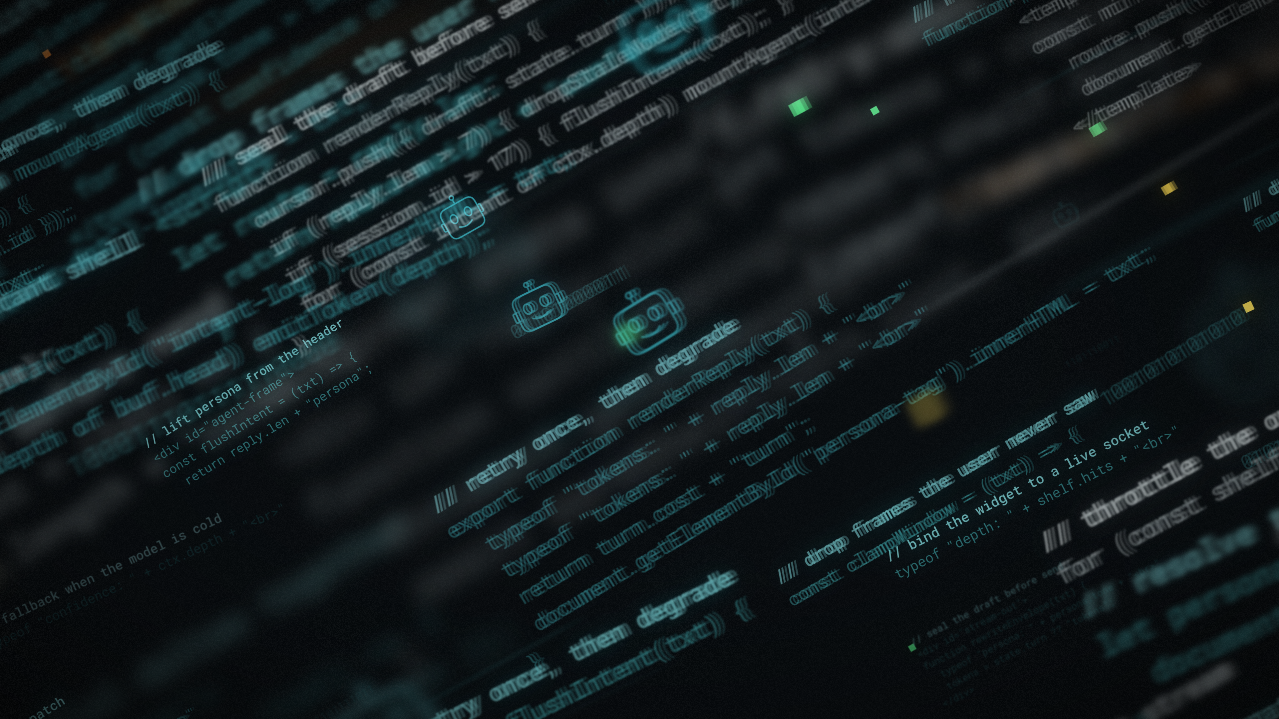
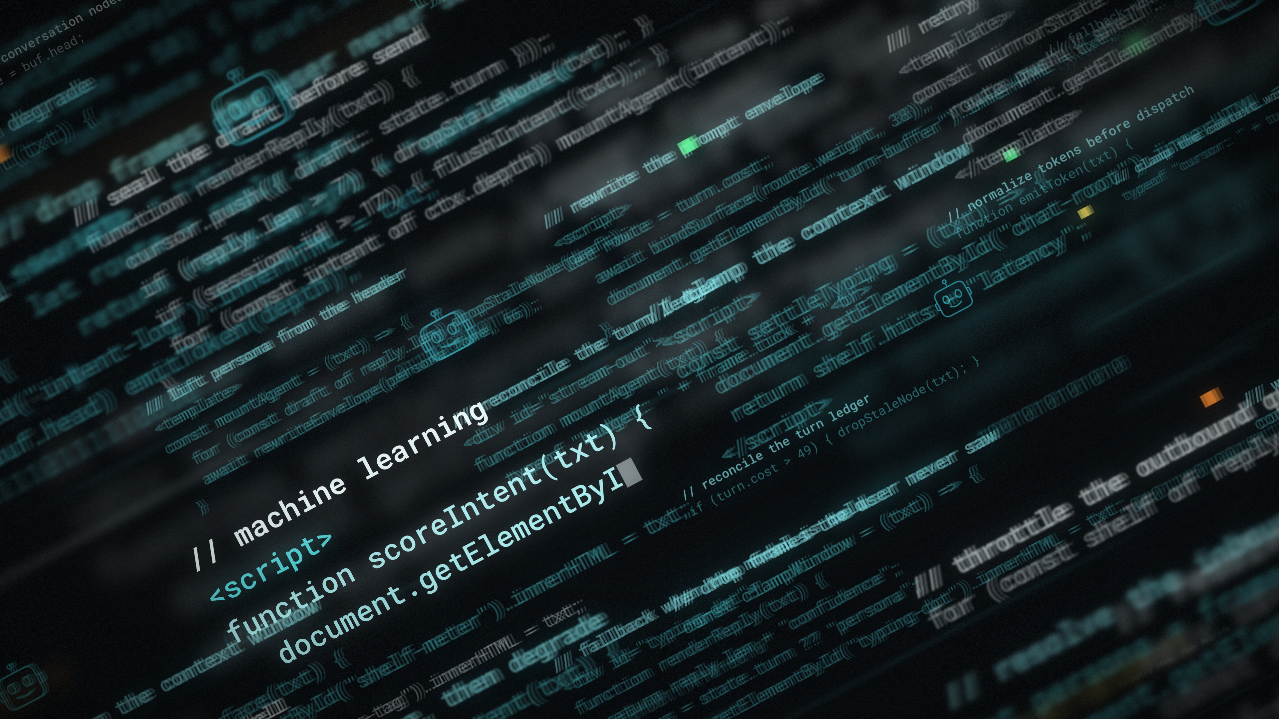
Lock every element to one tilt, add two typing hero fragments
Two changes against the reference look.

First, the tilt is now uniform. ROT_JITTER_DEG drops from 4 to 0, so every
element sits on exactly the same -28 degree axis. At this density the spread
stopped reading as life and started reading as inconsistency.

Second, two hero fragments. Large, sharp, on the shared tilt, with a comment
and a <script> tag already written and the function line and DOM call typing
themselves out character by character behind a blinking caret. They are the one
population drawn live rather than from a cached sprite, since their content
changes every frame - two elements, four short lines, no blur, no filter, so
the cost is negligible.

Typing progress comes from how far the fragment is through its crossing rather
than from the frame number, so it stays inside the loop: at frame 540 the
fragment is back at its frame-0 position and shows its frame-0 characters. The
caret blinks on a 36-frame period and 540 / 36 = 15. The two heroes are
phase-offset by half the loop so they take turns crossing.

verify-loop still passes: frame 0 and frame 540 are pixel-identical.

Claude-Session: https://claude.ai/code/session_01QD9ELq3c9MFeQ39FdHcLBf

diff --git a/src/CodeFlythrough/draw.ts b/src/CodeFlythrough/draw.ts
@@ -1,6 +1,6 @@
 import * as C from './constants';
 import type {FieldElement} from './field';
-import type {Sprite} from './sprites';
+import {fontString, type Sprite} from './sprites';
 
 export interface Scratch {
   small: HTMLCanvasElement;
@@ -10,6 +10,86 @@ export interface Scratch {
 }
 
 const mod1 = (n: number) => ((n % 1) + 1) % 1;
+
+const clamp01 = (n: number) => (n < 0 ? 0 : n > 1 ? 1 : n);
+
+/**
+ * Draws a hero fragment: the same tilt as everything else, its leading lines
+ * already written, the rest typing itself out as the fragment crosses frame.
+ *
+ * `prog` runs 1 -> 0 over one crossing, so `1 - prog` is how far along the
+ * crossing the fragment is. Deriving the typing from that instead of from the
+ * frame number is what keeps it inside the loop: at frame 540 the fragment is
+ * back at its frame-0 position and so shows its frame-0 characters.
+ */
+const drawHero = (
+  g: CanvasRenderingContext2D,
+  el: FieldElement,
+  x: number,
+  y: number,
+  scale: number,
+  f: number,
+  prog: number,
+  fontFamily: string,
+) => {
+  const typed = clamp01((1 - prog - C.HERO_TYPE_START) / C.HERO_TYPE_SPAN);
+
+  const animated = el.lines.slice(el.staticLines);
+  const total = animated.reduce((n, line) => n + line.length, 0);
+  let left = Math.floor(typed * total);
+
+  const lh = el.fontPx * C.LINE_HEIGHT;
+  const top = -(el.lines.length * lh) / 2;
+
+  g.save();
+  g.translate(x, y);
+  g.rotate(el.rot);
+  g.scale(scale, scale);
+  g.textAlign = 'left';
+  g.textBaseline = 'middle';
+  g.globalAlpha = el.alpha;
+
+  let caretX: number | null = null;
+  let caretY = 0;
+
+  for (let i = 0; i < el.lines.length; i++) {
+    const full = el.lines[i] as string;
+    const isStatic = i < el.staticLines;
+    const lineY = top + (i + 0.5) * lh;
+
+    g.font = fontString(fontFamily, el.fontPx, i === 0 ? el.weight + 100 : el.weight);
+    g.fillStyle = (el.lineColors[i] as string) ?? el.color;
+
+    if (!isStatic && left <= 0) {
+      // Nothing of this line is written yet. The caret waits at its indent.
+      const indent = full.slice(0, full.length - full.trimStart().length);
+      caretX = -el.w0 / 2 + g.measureText(indent).width;
+      caretY = lineY;
+      break;
+    }
+
+    const shown = isStatic ? full : full.slice(0, Math.min(left, full.length));
+    if (!isStatic) left -= shown.length;
+
+    g.fillText(shown, -el.w0 / 2, lineY);
+
+    if (!isStatic && shown.length < full.length) {
+      caretX = -el.w0 / 2 + g.measureText(shown).width;
+      caretY = lineY;
+      break;
+    }
+  }
+
+  // A blinking block caret while there is still text to write.
+  if (typed < 1 && caretX !== null && f % C.HERO_CARET_PERIOD < 22) {
+    g.globalAlpha = el.alpha * 0.5;
+    g.fillStyle = C.COLORS.codeWhite;
+    g.fillRect(caretX, caretY - el.fontPx * 0.42, el.fontPx * 0.58, el.fontPx * 0.86);
+  }
+
+  g.restore();
+  g.globalAlpha = 1;
+};
 
 /**
  * Handheld camera: a small drift perpendicular to the diagonal. Both sine
@@ -99,6 +179,7 @@ export interface DrawArgs {
   width: number;
   height: number;
   rand: (seed: string) => number;
+  fontFamily: string;
 }
 
 /**
@@ -121,6 +202,7 @@ export const drawFrame = ({
   width,
   height,
   rand,
+  fontFamily,
 }: DrawArgs) => {
   const f = ((frame % C.DURATION) + C.DURATION) % C.DURATION;
 
@@ -148,6 +230,11 @@ export const drawFrame = ({
 
     const x = (C.CX + C.AX * u + C.PX * perp) * sx;
     const y = (C.CY + C.AY * u + C.PY * perp) * sy;
+
+    if (el.kind === 'hero') {
+      drawHero(ctx, el, x, y, el.scale * sx, f, prog, fontFamily);
+      continue;
+    }
 
     const dw = sp.w * sp.m * sx;
     const dh = sp.h * sp.m * sy;

diff --git a/src/CodeFlythrough/field.ts b/src/CodeFlythrough/field.ts
@@ -1,9 +1,9 @@
 import {random} from 'remotion';
 import * as C from './constants';
 import {lift, mix} from './color';
-import {makeBinary, makeSnippet} from './snippets';
+import {HERO_SNIPPETS, makeBinary, makeSnippet} from './snippets';
 
-export type Kind = 'code' | 'icon' | 'binary' | 'streak' | 'accent';
+export type Kind = 'code' | 'icon' | 'binary' | 'streak' | 'accent' | 'hero';
 
 export interface FieldElement {
   id: string;
@@ -43,6 +43,10 @@ export interface FieldElement {
   streakThickness: number;
   /** accent only */
   squareSize: number;
+  /** hero only: how many leading lines are already written on entry. */
+  staticLines: number;
+  /** hero only: one colour per line. */
+  lineColors: string[];
 }
 
 export type Measure = (
@@ -207,6 +211,8 @@ const base = (
     glow: 0,
     streakThickness: 0,
     squareSize: 0,
+    staticLines: 0,
+    lineColors: [],
   };
 };
 
@@ -307,6 +313,43 @@ export const buildField = (measure: Measure): FieldElement[] => {
     el.color = pick(id + ':col', C.ACCENTS);
     el.alpha = Math.min(1, el.alpha * 1.35);
     el.glow = 1.2;
+    out.push(el);
+  }
+
+  // 6. HERO FRAGMENTS ------------------------------------------------------
+  // Large, sharp, on the shared tilt, with their second half typing out as
+  // they cross. Phase-offset by half a loop so they take turns crossing.
+  for (let i = 0; i < C.COUNT_HERO; i++) {
+    const id = `hero-${i}`;
+    const hero = HERO_SNIPPETS[i % HERO_SNIPPETS.length] as (typeof HERO_SNIPPETS)[number];
+    const w0 = measure(hero.lines, C.FONT_PX, 500);
+    const h0 = hero.lines.length * C.FONT_PX * C.LINE_HEIGHT;
+    const el = base(id, 'hero', C.HERO_Z, 0, w0, h0, i, C.COUNT_HERO, 0);
+    el.scale = C.HERO_SCALE;
+    el.lines = [...hero.lines];
+    el.staticLines = hero.staticLines;
+    el.weight = 500;
+    el.blur = 0;
+    // The hero is what the eye reads. It does not get smeared.
+    el.steps = 1;
+    el.perp = i === 0 ? -C.PERP_SPREAD * 0.11 : C.PERP_SPREAD * 0.03;
+    el.phase = i === 0 ? 0.75 : 0.25;
+    el.color = C.COLORS.codeCyan;
+    el.commentColor = C.COLORS.codeWhite;
+    el.lineColors = hero.lines.map((line, li) => {
+      if (li === 0) return C.COLORS.codeWhite;
+      if (line.startsWith('<')) return C.COLORS.codeCyan;
+      return lift(C.COLORS.codeCyan, 0.5);
+    });
+    el.glow = 1.3;
+
+    // Re-resolve the wrap now that scale is the hero's own, not z * MAX_SCALE.
+    const axisExtent = w0 * el.scale + h0 * el.scale * 0.12;
+    const wrap = wrapFor(C.HERO_Z, axisExtent);
+    el.speed = wrap.speed;
+    el.travel = wrap.travel;
+    el.cycles = wrap.cycles;
+
     out.push(el);
   }
 

diff --git a/src/CodeFlythrough/constants.ts b/src/CodeFlythrough/constants.ts
@@ -43,8 +43,13 @@ export const PERP_VIEW = WIDTH * Math.abs(PX) + HEIGHT * Math.abs(PY); // ~3708
 /** Perpendicular spread the field is scattered across. */
 export const PERP_SPREAD = PERP_VIEW + 780;
 
-/** Per-element rotation jitter, in degrees. More than this breaks the stream. */
-export const ROT_JITTER_DEG = 4;
+/**
+ * Per-element rotation jitter, in degrees.
+ *
+ * Zero: every element sits on exactly the same tilt. Any spread at all reads
+ * as inconsistency once the field is this dense, so the stream is kept rigid.
+ */
+export const ROT_JITTER_DEG = 0;
 
 /** Depth range. */
 export const Z_MIN = 0.15;
@@ -112,3 +117,27 @@ export const VIGNETTE = 0.22;
 export const GRAIN_ALPHA = 0.045;
 export const GRAIN_TILES = 12;
 export const GRAIN_TILE_PX = 320;
+
+/**
+ * HERO FRAGMENTS
+ *
+ * Two large, sharp code blocks on the shared tilt whose second half types
+ * itself out as they cross, so the field reads as code being written rather
+ * than only code drifting past. They are drawn live rather than from a cached
+ * sprite, since their content changes frame to frame.
+ */
+export const COUNT_HERO = 2;
+/** Sits at the far edge of the sharp band, so its blur is zero. */
+export const HERO_Z = 0.49;
+/** Fixed rather than derived from z: the hero is deliberately oversized. */
+export const HERO_SCALE = 2.45;
+/**
+ * Typing runs over this window of the element's crossing and then holds
+ * complete. Tied to the crossing rather than to a wall clock, so it loops for
+ * free: at frame 540 every element is back at its frame-0 crossing position,
+ * and therefore at its frame-0 typing state.
+ */
+export const HERO_TYPE_START = 0.24;
+export const HERO_TYPE_SPAN = 0.42;
+/** Caret blink period in frames. Must divide DURATION: 540 / 36 = 15. */
+export const HERO_CARET_PERIOD = 36;

diff --git a/src/CodeFlythrough/snippets.ts b/src/CodeFlythrough/snippets.ts
@@ -180,3 +180,39 @@ export const makeBinary = (seed: string): string => {
 
 /** True for comment lines, which get the brightest treatment. */
 export const isComment = (line: string) => line.trimStart().startsWith('//');
+
+/**
+ * The two hero fragments.
+ *
+ * Same invented-content rule as the rest of the field: the topics are generic
+ * subject phrases and the surrounding structure is ordinary DOM boilerplate,
+ * but the function names and element ids are made up for this animation.
+ *
+ * `staticLines` is how many lines are already written when the fragment enters
+ * frame. Everything after that types itself out as the fragment crosses.
+ */
+export interface HeroSnippet {
+  lines: string[];
+  staticLines: number;
+}
+
+export const HERO_SNIPPETS: readonly HeroSnippet[] = [
+  {
+    lines: [
+      '// ai chatbot',
+      '<script>',
+      'function replyStream(txt) {',
+      '  document.getElementById("chat-root").innerHTML = txt;',
+    ],
+    staticLines: 2,
+  },
+  {
+    lines: [
+      '// machine learning',
+      '<script>',
+      'function scoreIntent(txt) {',
+      '  document.getElementById("intent-log").innerHTML = txt;',
+    ],
+    staticLines: 2,
+  },
+];

diff --git a/src/CodeFlythrough/sprites.ts b/src/CodeFlythrough/sprites.ts
@@ -24,7 +24,7 @@ const ctx2d = (c: HTMLCanvasElement) => {
   return g;
 };
 
-const fontString = (fontFamily: string, px: number, weight: number) =>
+export const fontString = (fontFamily: string, px: number, weight: number) =>
   `${weight} ${px}px "${fontFamily}", "Roboto Mono", ui-monospace, monospace`;
 
 /** Text measurement, used while generating the field. */
@@ -225,6 +225,11 @@ const smear = (core: HTMLCanvasElement, el: FieldElement, m: number): Sprite => 
  * redone; per frame the element costs a handful of drawImage calls.
  */
 const buildSprite = (el: FieldElement, fontFamily: string): Sprite => {
+  // Heroes retype themselves every frame, so there is nothing to cache.
+  if (el.kind === 'hero') {
+    return {canvas: makeCanvas(1, 1), m: 1, w: 1, h: 1};
+  }
+
   const sharpness = 1 / (1 + el.blur / 10);
   let rs = Math.min(
     el.scale,

diff --git a/src/CodeFlythrough/index.tsx b/src/CodeFlythrough/index.tsx
@@ -109,6 +109,7 @@ export const CodeFlythrough: React.FC = () => {
       width,
       height,
       rand: random,
+      fontFamily: FONT_FAMILY,
     });
 
     if (handleRef.current !== null) {

diff --git a/README.md b/README.md
@@ -60,9 +60,34 @@ shape sweeping past the lens or dim distant texture.
 
 ### The diagonal
 
-Every element is rotated to the same -28° axis and drifts along that same axis
-toward the lower left, with ±4° of per-element jitter. The shared angle is what
+Every element is rotated to exactly the same -28° axis and drifts along that
+same axis toward the lower left. There is no per-element rotation jitter:
+`ROT_JITTER_DEG` is 0, because at this density any spread at all stops reading
+as life and starts reading as inconsistency. The single shared angle is what
 makes the field cohere into a stream instead of scattered debris.
+
+### The hero fragments
+
+Two of the fragments are heroes: large, sharp, on the shared tilt, and their
+second half types itself out as they cross frame — a comment and a `<script>`
+tag already written, then the function line and the DOM call appearing
+character by character behind a blinking caret.
+
+They are the one population drawn live instead of from a cached sprite, since
+their content changes every frame. That costs nothing: two elements, four short
+lines, no blur, no filter.
+
+Typing progress is derived from how far the fragment is through its crossing,
+not from the frame number:
+
+```
+typed = clamp01((1 - prog - HERO_TYPE_START) / HERO_TYPE_SPAN)
+```
+
+so it loops for free. At frame 540 the fragment is back at its frame-0 crossing
+position and therefore shows its frame-0 characters. The caret blink is on a
+36-frame period, and 540 / 36 = 15. The two heroes are phase-offset by half the
+loop, so they take turns crossing.
 
 ### The seamless loop
 
@@ -95,7 +120,8 @@ they took it from ~13s to ~2.3s per frame:
 
 - **Sprites are built once.** An element's rotation, depth blur and colour never
   change, so the text is laid out and rasterised a single time into a small
-  offscreen canvas. Per frame it is one blit.
+  offscreen canvas. Per frame it is one blit. (The two hero fragments are the
+  deliberate exception - they retype themselves, so there is nothing to cache.)
 - **Motion blur is baked in.** Speed is constant per element, so the 3–5 offset
   copies that make the directional smear are composited into the sprite when it
   is built instead of being redrawn 540 times.
